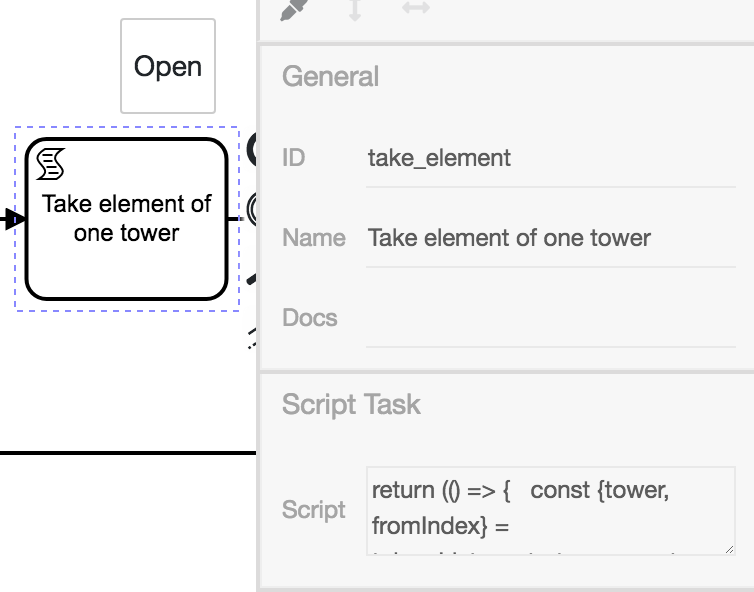
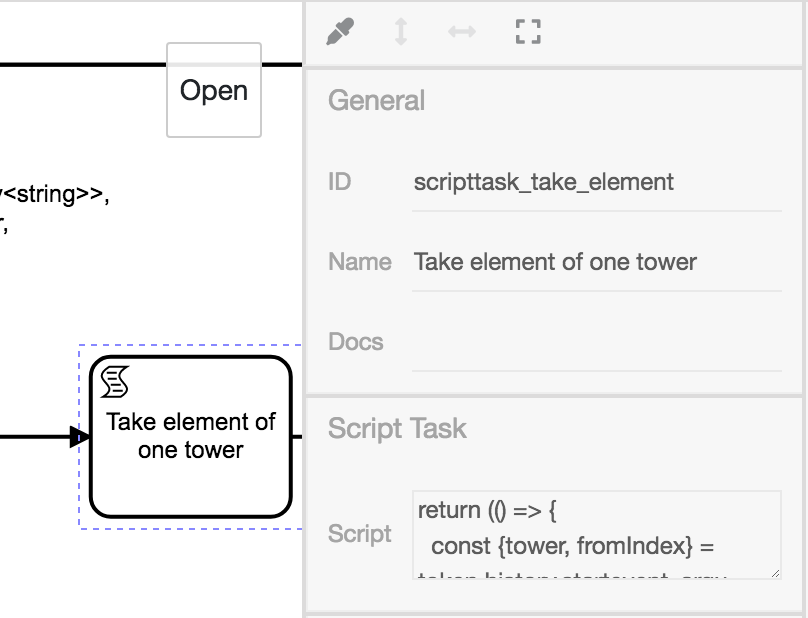
:bug: :lipstick: Fix IDs; Improve Wording
This commit adds the changes introduced in
https://github.com/process-engine/documentation/pull/171

Changed region(s): [[0.0, 0.0, 1.0, 1.0], [0.4881, 0.7905, 0.8846, 0.9426], [0.4881, 0.2432, 0.8541, 0.3345]]

diff --git a/solutions/Towers/README.md b/solutions/Towers/README.md
@@ -2,7 +2,7 @@
 
 Einer der wichtigsten Faktoren von BPMN ist die Modularität. Indem wir
 komplexe Vorgänge auf mehrere Diagramme verteilen, erreichen wir mehr
-Ordnung und Austauschbarkeit.
+Ordnung, Übersicht und Austauschbarkeit.
 
 Das hier vorgestellte Beispiel demonstriert das Zusammensetzen
 mehrerer Diagramme zur Lösung eines Problems.
@@ -108,6 +108,6 @@ Die Modellierung der Diagramme wird getrennt erklärt:
 
 # Ausführung
 
-Und hier sehen wir die Prozesse in Ausführung:
+Hier sehen wir die Prozesse in Ausführung:
 
-<img src="./images/execution.gif" />
+{% video controls="controls"%}./images/execution.mp4{% endvideo %}

diff --git a/solutions/Towers/move_tower.md b/solutions/Towers/move_tower.md
@@ -36,7 +36,8 @@ Wir möchten dem Anwender gerne den Startzustand präsentieren.  Wir
 erreichen dies mit einem Confirm-UserTask und dem Wert
 `${JSON.stringify(token.current)}` als Label fürs Formfield.
 
-> Das **Hello World**-Beispiel zeigt Confirm-UserTasks im Detail.
+> Das [Hello World-Beispiel](../hello_world/README.md) zeigt
+> Confirm-UserTasks im Detail.
 
 ## Turm umdrehen
 

diff --git a/solutions/Towers/flip_tower.md b/solutions/Towers/flip_tower.md
@@ -106,7 +106,7 @@ Der ScriptTask erhält den Namen `Return towers`.
 
 Wir fügen zudem einen Flow vom Gateway zum ScriptTask mit der Condition
 `token.history.servicetask_check_if_done === true` und dem Namen `yes`
-(als Antwort auf die Frage, ob der Turm leer ist) zu.
+(als Antwort auf die Frage, ob der Turm leer ist) hinzu.
 
 Der ScriptTask wird mit einem EndEvent verbunden.
 

diff --git a/solutions/Towers/move_element.md b/solutions/Towers/move_element.md
@@ -30,7 +30,7 @@ Expects:
 ```
 
 Um komfortabel auf diese Startparameter zugreifen zu können, vergeben
-wir eine neue ID `startevent_arguments`.
+wir eine neue ID `startevent_arguments` an das StartEvent.
 
 
 ## ScriptTask `Take element of one tower`
